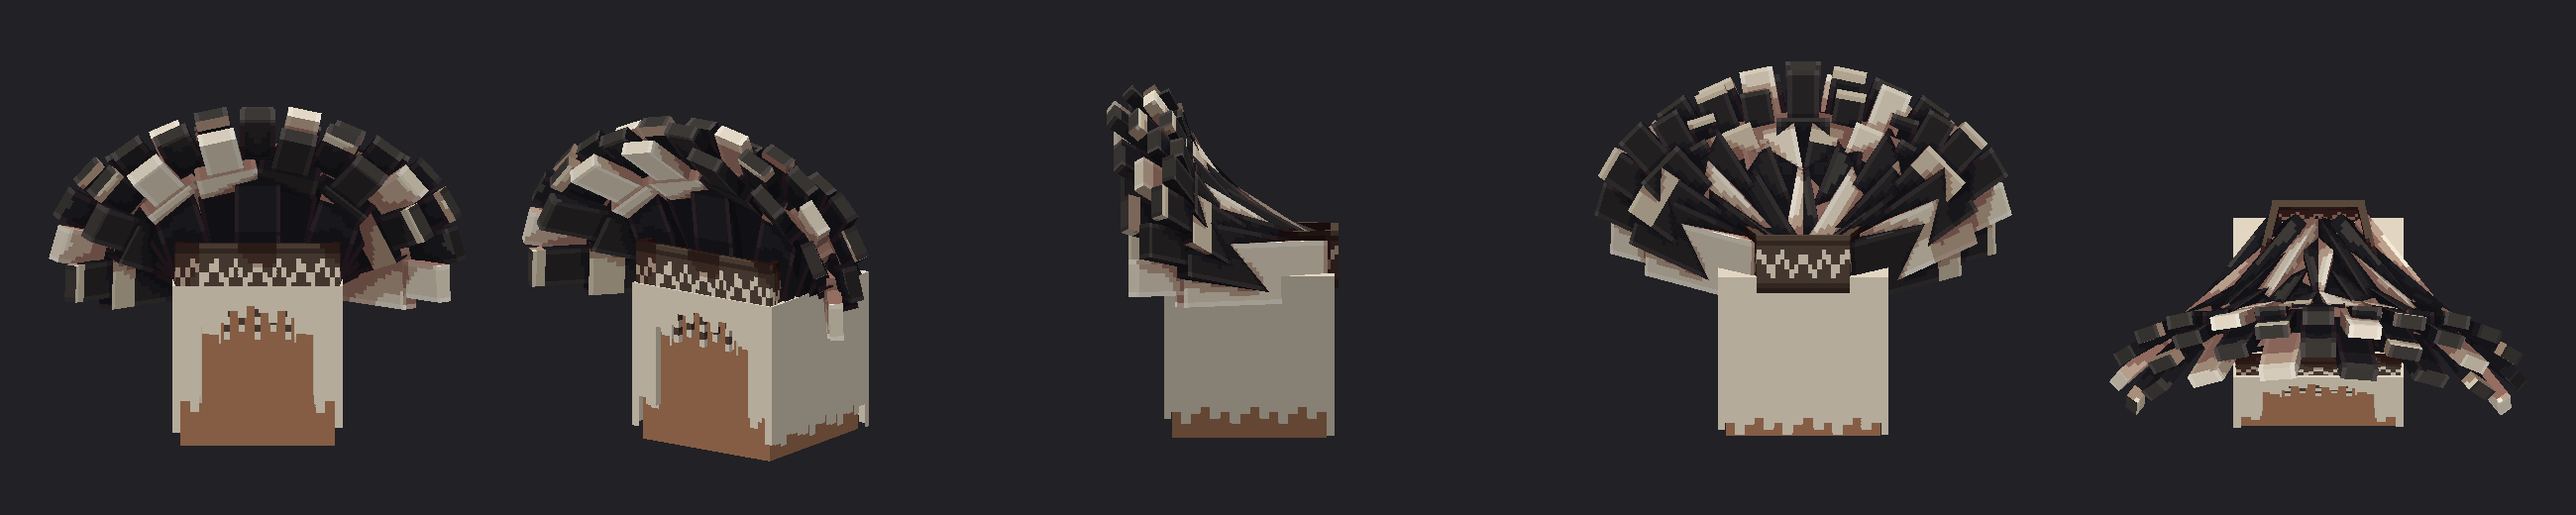
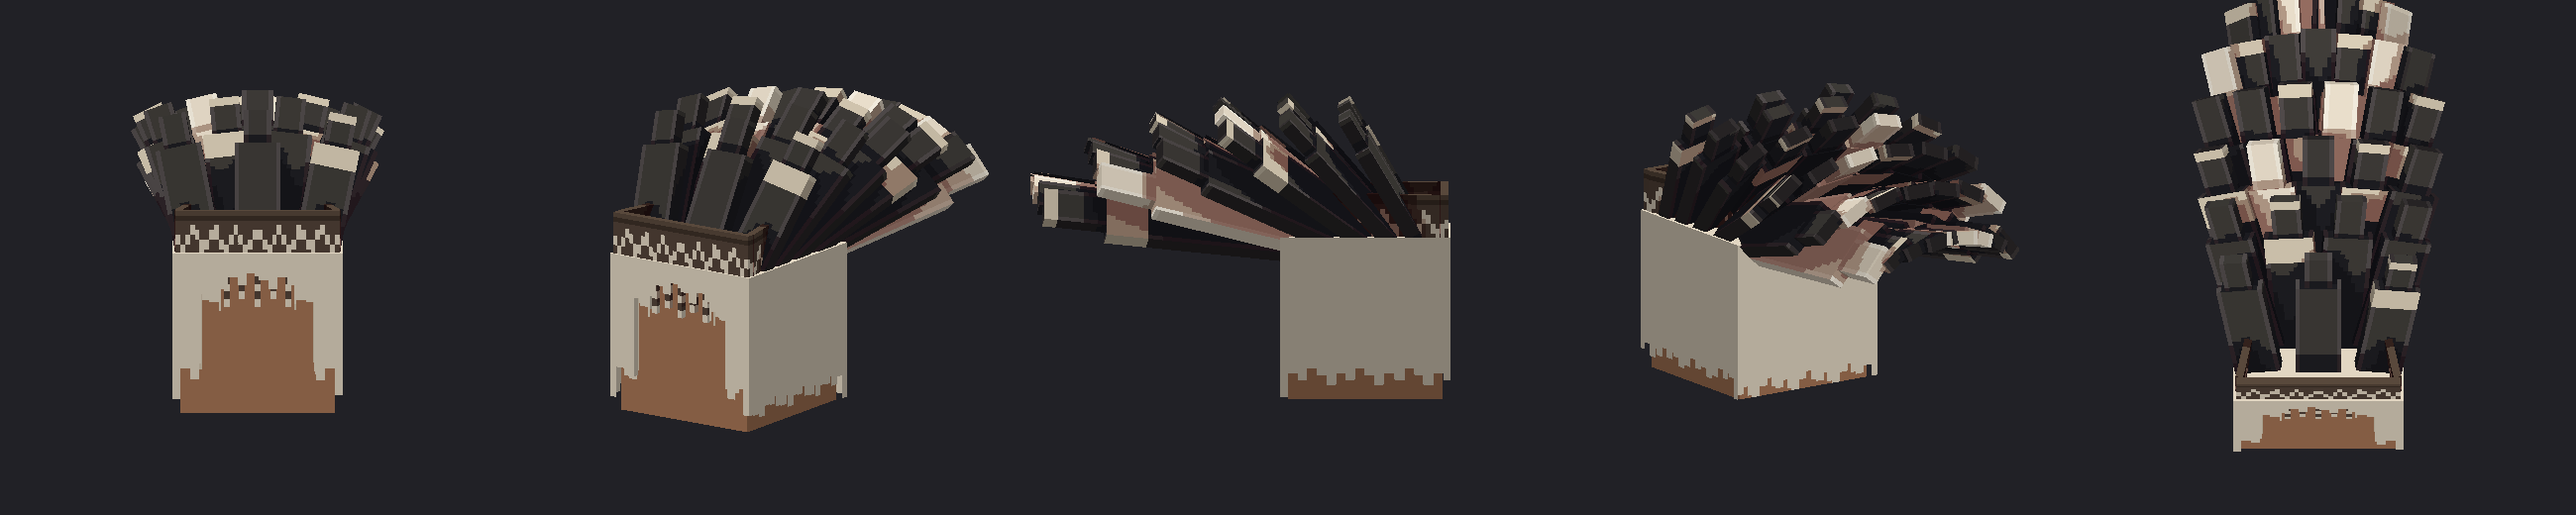
Kemira: el penacho peinado hacia atras
Claude-Session: https://claude.ai/code/session_01JLSuk79QgXUucDMTiBYitK

diff --git a/taller/personajes/kemira.py b/taller/personajes/kemira.py
@@ -138,15 +138,15 @@ def poner_figura(p, nombre, base, largo, ancho, rot, tono, punta=None, grosor=0.
 
 def penacho(p, T):
     """El pelo de arriba como un penacho de figuras 3D: nace en la mitad de la frente (adentro de la diadema) y va
-    hacia atras en filas; adelante figuras cortas y paradas, atras mas largas, mas abiertas hacia los costados y
-    vencidas hacia atras hasta caer por la espalda. Casi todas negras, algunas crema."""
+    hacia atras en filas, todas peinadas hacia atras; las de adelante mas cortas, las de atras mas largas, un
+    poco abiertas a los costados y vencidas hasta caer por la espalda. Casi todas negras, algunas crema."""
     filas = 6
     for r in range(filas):
         f = r / (filas - 1)                                        # 0 adelante, 1 atras
         z = -2.6 + 6.4 * f
         mitad = 1.6 + 0.9 * f * 0 + (4.1 - 1.9 * f) * 0.55         # medio ancho del trapecio a esa altura, adentro
         n = 3 + r
-        abre = 18 + 70 * f
+        abre = 12 + 38 * f
         for k in range(n):
             a = -abre + 2 * abre * k / max(1, n - 1) if n > 1 else 0.0
             x = mitad * (a / abre if abre else 0) * 0.8
@@ -154,7 +154,7 @@ def penacho(p, T):
             crema = (r >= 2 and (k + r) % 5 == 0) or (r == filas - 1 and k == n // 2)
             tono = CREMA_PLUMA if crema else NEGRO
             punta = None if crema or (k + r) % 3 else CREMA_PLUMA["s"]
-            poner_figura(p, f"figura{r}_{k}", (x, T + 0.5, z), largo, 2.4 + 0.8 * f, (-8 - 45 * f, 0, -a),
+            poner_figura(p, f"figura{r}_{k}", (x, T + 0.5, z), largo, 2.4 + 0.8 * f, (30 + 50 * f, 0, -a),
                          tono, punta)
 
 
